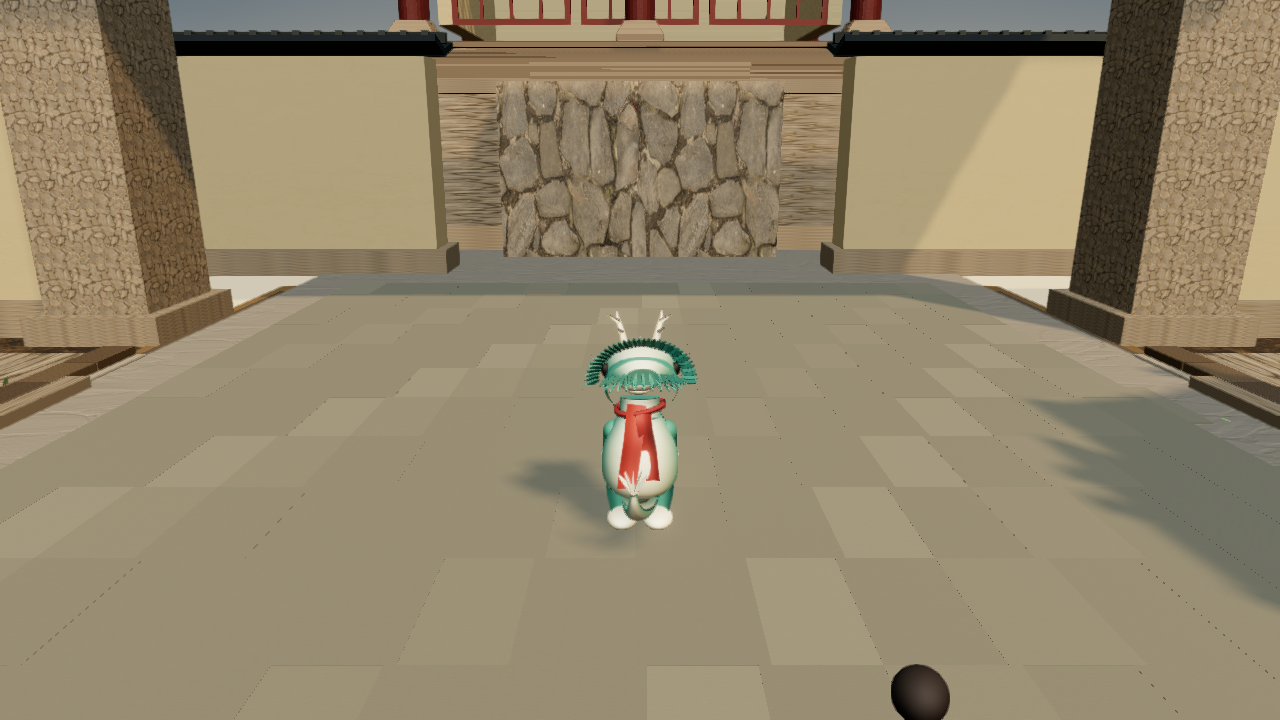
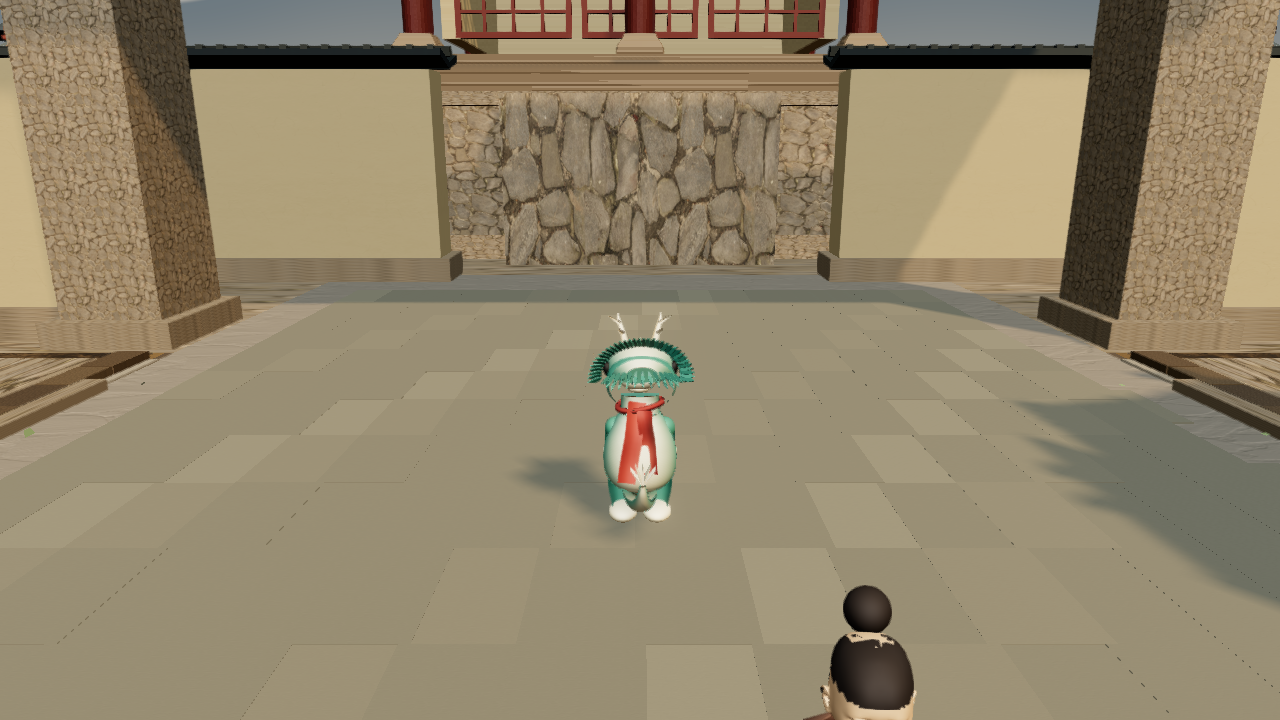
Scale the hall base stone UV per part so the texture stops streaking

diff --git a/src/hero-street.js b/src/hero-street.js
@@ -1253,11 +1253,41 @@
     const baseW = 16.6;
     const baseD = 12.2;
 
-    const base = new THREE.Mesh(new THREE.BoxGeometry(baseW, BASE_H, baseD), materials.stone);
+    // 台基类构件必须按自身尺寸算 UV repeat。
+    // materials.stone 的 repeat (2, 8) 是给整块台基调的：套到 16.6 x 3.2 的正面，
+    // 横向周期 8.55m、纵向周期只有 0.03m，各向异性 263:1，
+    // 石纹被压成横向丝条（实测，这就是门洞里那面墙的观感）。
+    // 这里按"每约 2m 一个纹理周期"给每个构件单独算 repeat。
+    const stoneWithPeriod = (name, w, h, period = 2.0) => {
+      const mat = materials.stone.clone();
+      mat.name = name;
+      const setRepeat = (tex, rx, ry) => {
+        if (!tex) return null;
+        const t = tex.clone();
+        t.needsUpdate = true;
+        t.wrapS = t.wrapT = THREE.RepeatWrapping;
+        t.repeat.set(rx, ry);
+        return t;
+      };
+      const rx = Math.max(1, Math.round(w / period));
+      const ry = Math.max(1, Math.round(h / period));
+      mat.map = setRepeat(mat.map, rx, ry);
+      mat.normalMap = setRepeat(mat.normalMap, rx, ry);
+      mat.roughnessMap = setRepeat(mat.roughnessMap, rx, ry);
+      return mat;
+    };
+
+    const base = new THREE.Mesh(
+      new THREE.BoxGeometry(baseW, BASE_H, baseD),
+      stoneWithPeriod('street-stone-base', baseW, BASE_H, 2.0),
+    );
     base.position.set(0, BASE_H / 2 - 0.02, HALL_Z);
     base.castShadow = base.receiveShadow = true;
     group.add(base);
-    const coping = new THREE.Mesh(new THREE.BoxGeometry(baseW + 0.5, 0.26, baseD + 0.5), materials.stone);
+    const coping = new THREE.Mesh(
+      new THREE.BoxGeometry(baseW + 0.5, 0.26, baseD + 0.5),
+      stoneWithPeriod('street-stone-coping', baseW + 0.5, 0.26, 1.2),
+    );
     coping.position.set(0, BASE_H - 0.06, HALL_Z);
     group.add(coping);
     // 台基压边下一道暗色墙脚，避免台基读成一块大方盒子。
@@ -1267,7 +1297,7 @@
     // 台基下沿本来就该是石色，改用 materials.stone。
     const plinth = new THREE.Mesh(
       new THREE.BoxGeometry(baseW + 0.2, 0.5, baseD + 0.2),
-      materials.stone,
+      stoneWithPeriod('street-stone-plinth', baseW + 0.2, 0.5, 1.2),
     );
     plinth.position.set(0, 0.25, HALL_Z);
     group.add(plinth);

diff --git a/docs/REBUILD_PLAN.md b/docs/REBUILD_PLAN.md
@@ -892,6 +892,21 @@
 - 效果：坊墙外有整片屋顶延伸出去，远处还能看到塔，天际线不再突然变成空地。
 - 复审 1280×720 / 844×390 均 passed，4042/4112 calls、约 374/384 万三角形。
 
+### 同轮：台基类构件的 UV 按尺寸分配（建筑第三十九轮）
+
+- 门洞里那面墙（殿堂台基正面）显示为横向拉丝的纤维感。
+- 量化定位：`materials.stone` 的 repeat 是 `(2, 8)`，套到 16.6 x 3.2 的正面，
+  横向周期 8.55m、纵向周期只有 0.03m，**各向异性 263:1**，石纹被压成横条。
+  压边石（17.1 x 0.3）与台基下沿（16.8 x 0.5）更极端。
+- 修法：写 `stoneWithPeriod(name, w, h, period)`，按"每约 2m 一个纹理周期"
+  给每个构件单独算 repeat（base / coping / plinth 三处各一份材质），
+  basecolor / normal / roughness 三张图同步设置。
+- 修后台基正面显示为方正的乱石纹，拉丝消失。
+- **这是同类问题的第二例**（上一例是踏道台阶）。规律：
+  共享材质的 repeat 是按某一个构件调的，套到尺寸差别大的构件上就会拉伸；
+  凡是大平面与小构件共用同一材质，都要按尺寸分配 repeat。
+- 复审 1280×720 / 844×390 均 passed，4042/4112 calls、约 374/384 万三角形。
+
 ## 决策记录
 
 - 构件几何统一以"底面 z=0"为基准，便于按层堆叠与复用。
